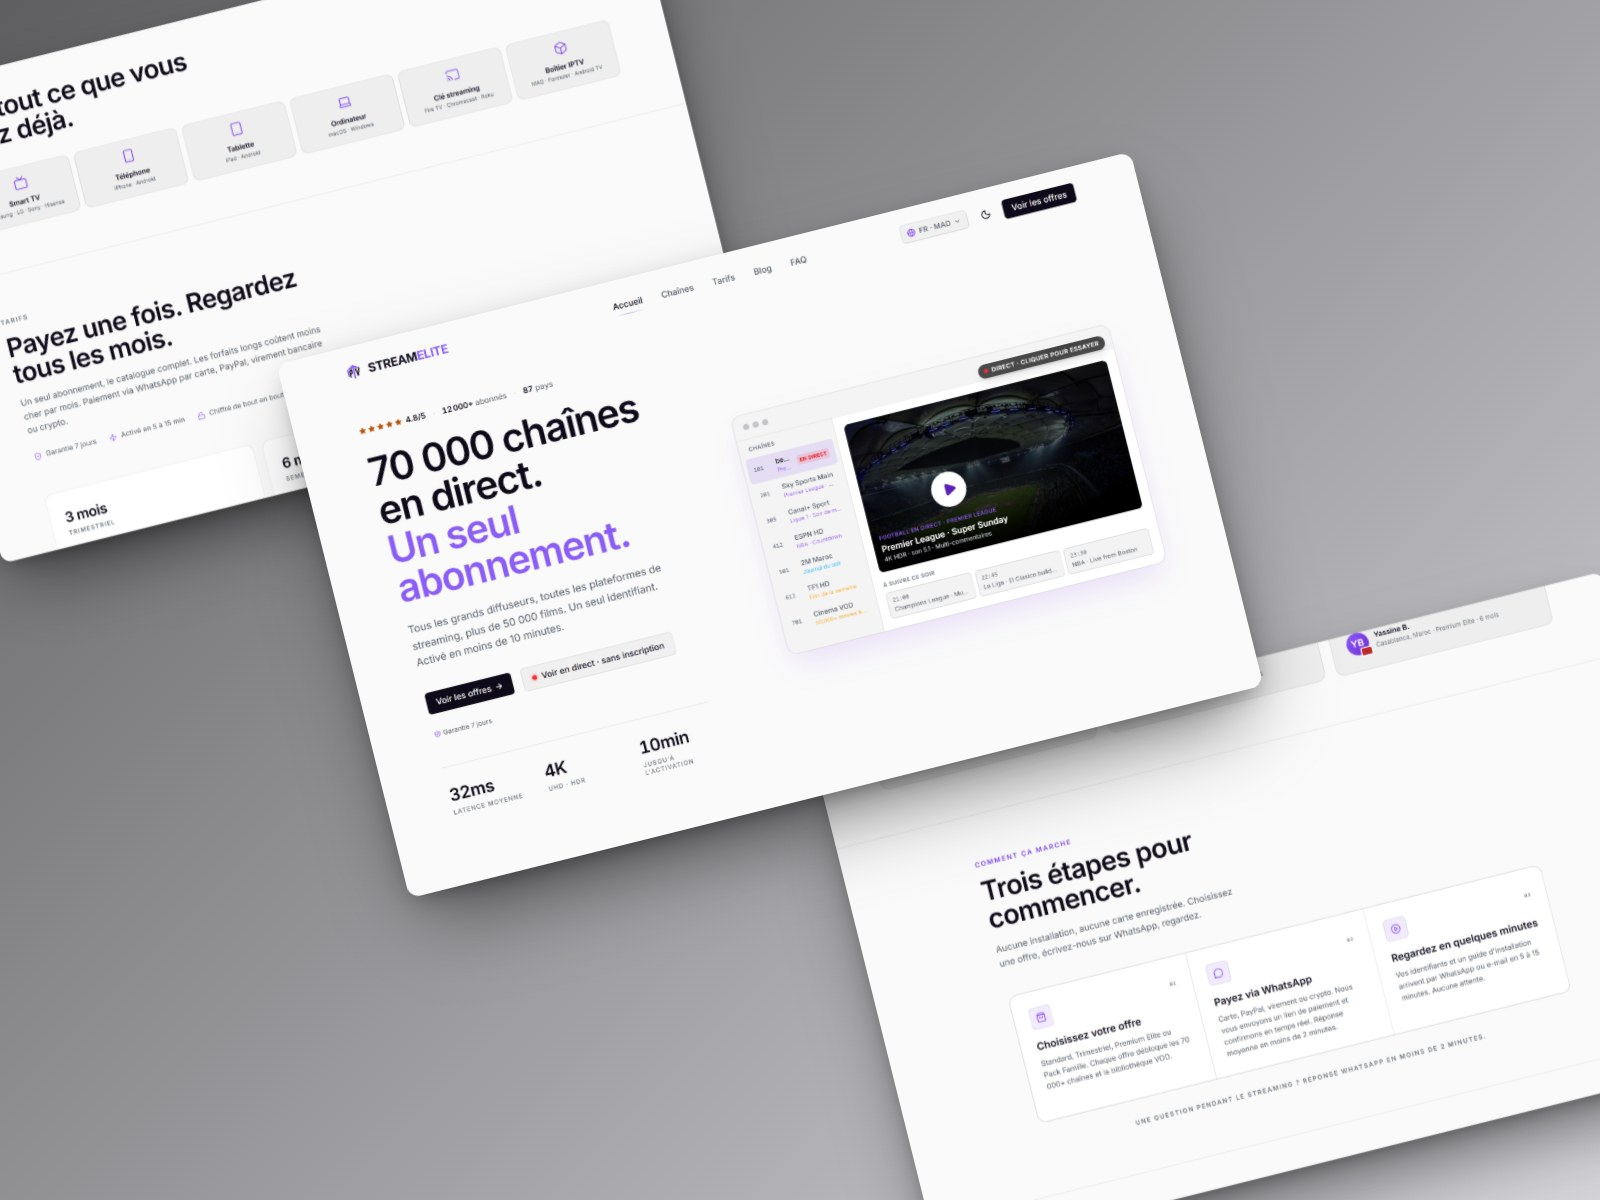
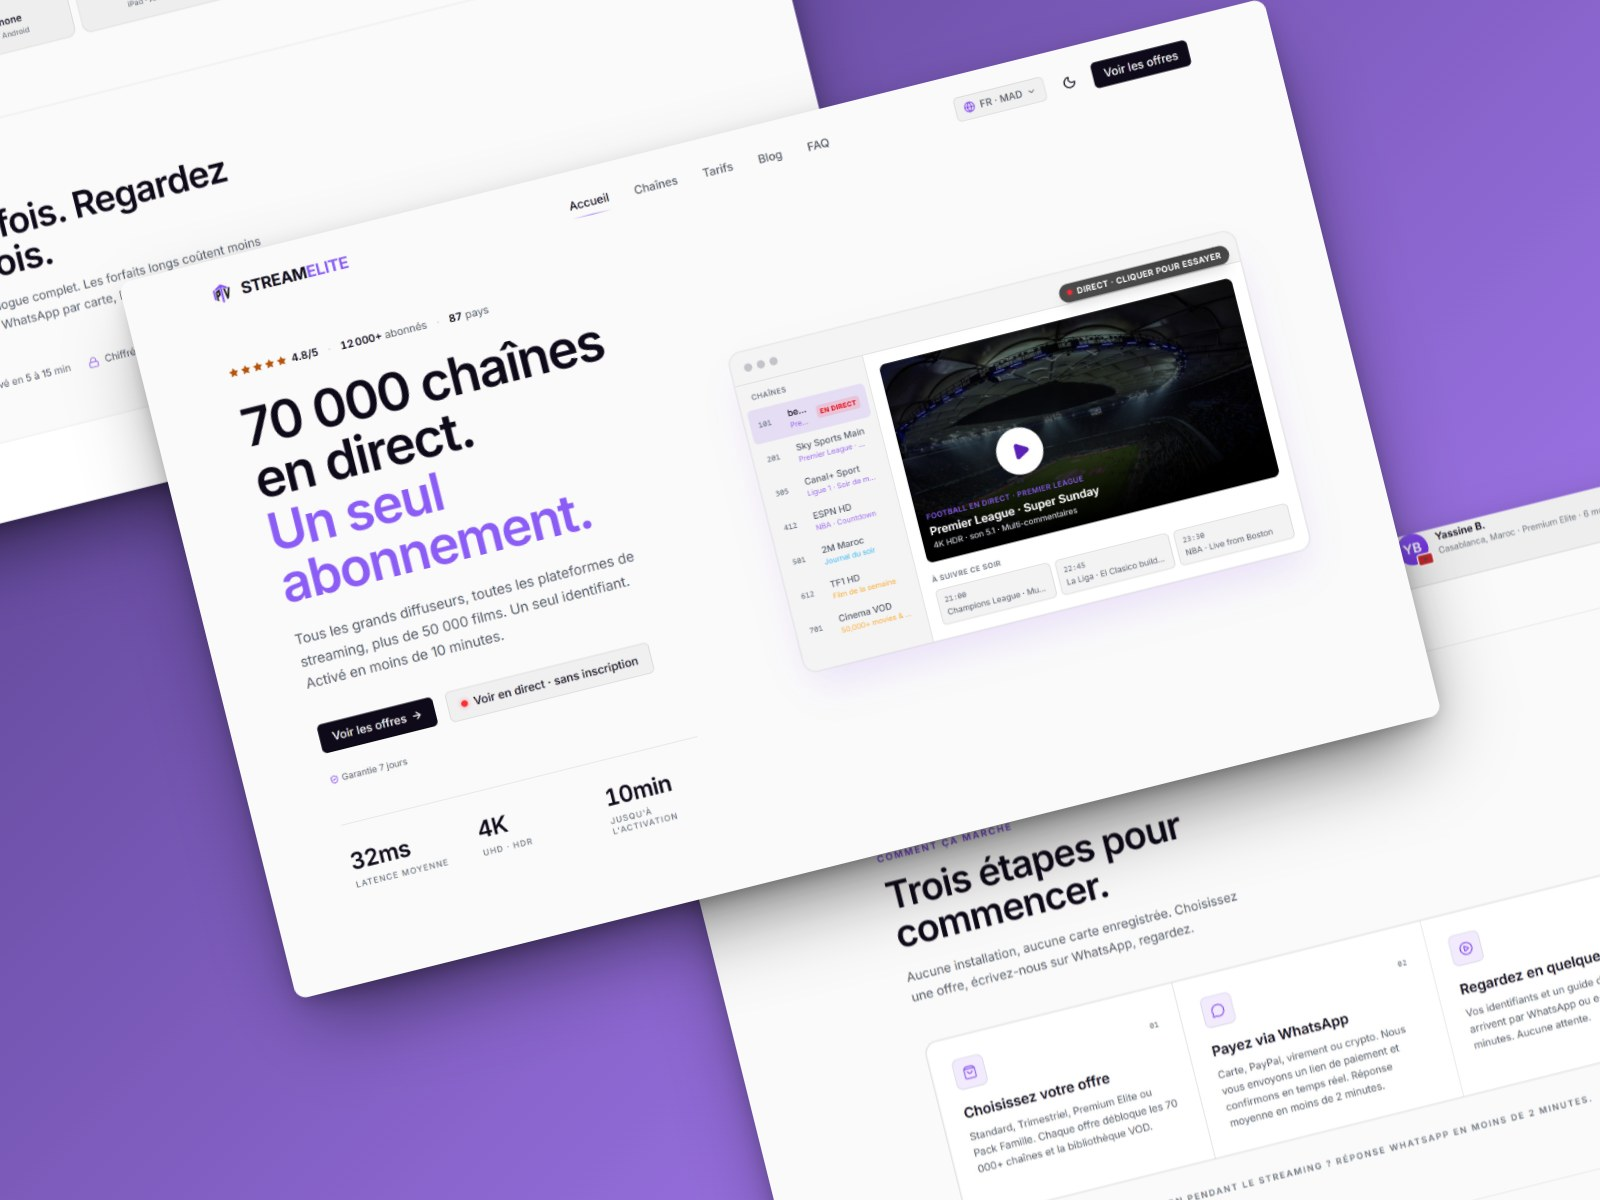
feat(projects): load more at four, brand-colour collages, real ACPins domain
Three changes.

Load more. Seven cards in one run made the section 2925px, far taller
than anything around it, and taller than the reference ever gets because
it only ever shows four. Four now show by default, revealing four more
per press: 1723px, a 41% cut. Focus moves to the first newly revealed
card, since otherwise a keyboard user presses the button and nothing
appears to happen, and ScrollTrigger refreshes because every trigger
below just moved. The count is not printed on the button, but it is still
announced to screen readers, which is where it is actually needed.

Collage backdrops now use the site's dominant brand colour instead of its
average. Averaging a page lands on grey, because most of a page is light
UI chrome, which is why the earlier set looked washed out. Sampling the
reference's own cards showed the opposite: rgb(124,71,3) warm brown,
rgb(42,103,184) blue. The new sampler buckets pixels, discards near-white,
near-black and near-grey, then weights saturation against sqrt(frequency)
so a large dull region cannot swamp a small vivid accent. Results are
Everstead gold, Carently deep purple, ACScripts and ACPins neon green,
Marbio blue-grey: each site's actual accent.

Panes also grew from 880px to 1180px and were repositioned to run off
every edge, matching the reference, where the backdrop shows only through
the corner gaps rather than framing the composition.

ACPins points at pins.aczone.xyz, capturing from its Vercel deployment.
[…]

diff --git a/components/ProjectGrid.tsx b/components/ProjectGrid.tsx
@@ -1,0 +1,78 @@
+'use client'
+
+import { useEffect, useRef, useState } from 'react'
+import { ScrollTrigger } from '@/lib/gsap'
+import type { Project } from '@/lib/content'
+import { ProjectCard } from './ProjectCard'
+import { Pill } from './ui/Pill'
+
+/** Cards shown before the first "load more", and how many each press adds. */
+const INITIAL = 4
+const STEP = 4
+
+/**
+ * The card grid, revealing four at a time.
+ *
+ * Seven cards in one run made the section far taller than anything around it,
+ * which is a problem the reference never has because it only shows four.
+ * Loading in batches keeps the section proportionate while leaving everything
+ * reachable.
+ */
+export function ProjectGrid({ projects }: { projects: readonly Project[] }) {
+  const [count, setCount] = useState(INITIAL)
+  const gridRef = useRef<HTMLDivElement>(null)
+  const previous = useRef(INITIAL)
+
+  const visible = projects.slice(0, count)
+  const remaining = projects.length - count
+
+  useEffect(() => {
+    if (count <= previous.current) {
+      previous.current = count
+      return
+    }
+
+    /* Move focus to the first newly revealed card. Without this a keyboard user
+       presses the button and their position is unchanged, with no indication
+       anything happened; the new cards are appended somewhere below them. */
+    const cards = gridRef.current?.querySelectorAll<HTMLAnchorElement>('a')
+    cards?.[previous.current]?.focus({ preventScroll: false })
+
+    /* The page just got taller, so every trigger below this point is measuring
+       against stale positions. */
+    ScrollTrigger.refresh()
+
+    previous.current = count
+  }, [count])
+
+  return (
+    <>
+      <div
+        ref={gridRef}
+        className="mx-auto mt-14 grid w-full max-w-[1090px] gap-6 md:grid-cols-2"
+      >
+        {visible.map((project, i) => (
+          <ProjectCard key={project.slug} project={project} index={i} />
+        ))}
+      </div>
+
+      {remaining > 0 && (
+        <div className="mt-12 flex justify-center">
+          <button
+            type="button"
+            onClick={() => setCount((c) => Math.min(c + STEP, projects.length))}
+            className="rounded-full bg-ink-cta px-6 py-3 font-display text-base font-semibold text-white shadow-ramp transition-colors duration-200 ease-signature hover:bg-ink-cta-hover"
+          >
+            Load more
+          </button>
+        </div>
+      )}
+
+      {/* Announced to screen readers on change, so the count is not something
+          you can only discover by looking. */}
+      <p aria-live="polite" className="sr-only">
+        Showing {visible.length} of {projects.length} projects.
+      </p>
+    </>
+  )
+}

diff --git a/components/Projects.tsx b/components/Projects.tsx
@@ -1,5 +1,5 @@
 import { projects, projectsSection } from '@/lib/content'
-import { ProjectCard } from './ProjectCard'
+import { ProjectGrid } from './ProjectGrid'
 import { Eyebrow } from './ui/Eyebrow'
 import { Reveal } from './ui/Reveal'
 
@@ -13,6 +13,9 @@ import { Reveal } from './ui/Reveal'
  * Two containers, not one. The header runs to 1200px while the card grid is
  * 1090px (two 533px cards plus a 24px gap), centred inside it. That inset is
  * measured, not invented.
+ *
+ * The grid is a client component only because it holds the load-more count;
+ * everything else here stays server-rendered.
  */
 export function Projects() {
   return (
@@ -24,11 +27,8 @@ export function Projects() {
           <p className="text-base leading-[1.8] text-muted">{projectsSection.intro}</p>
         </Reveal>
 
-        <div className="mx-auto mt-14 grid w-full max-w-[1090px] gap-6 md:grid-cols-2">
-          {projects.map((project, i) => (
-            <ProjectCard key={project.slug} project={project} index={i} />
-          ))}
-        </div>
+        <ProjectGrid projects={projects} />
+
       </div>
     </section>
   )

diff --git a/lib/content.ts b/lib/content.ts
@@ -135,9 +135,8 @@ export const projects: Project[] = [
     description:
       'Storefront for digital game cards, top-ups and subscriptions in Morocco, priced in dirhams with codes delivered over WhatsApp. Spans gift cards, pins, subscriptions and game keys.',
     image: '/projects/acpins.jpg',
-    // TODO (Saad): no custom domain was given for this one, so it still points
-    // at the Vercel deployment. Swap it in if there is one.
-    href: 'https://ac-pins.vercel.app/',
+    href: 'https://pins.aczone.xyz/',
+    captureUrl: 'https://ac-pins.vercel.app/',
   },
   {
     slug: 'acpeds',
